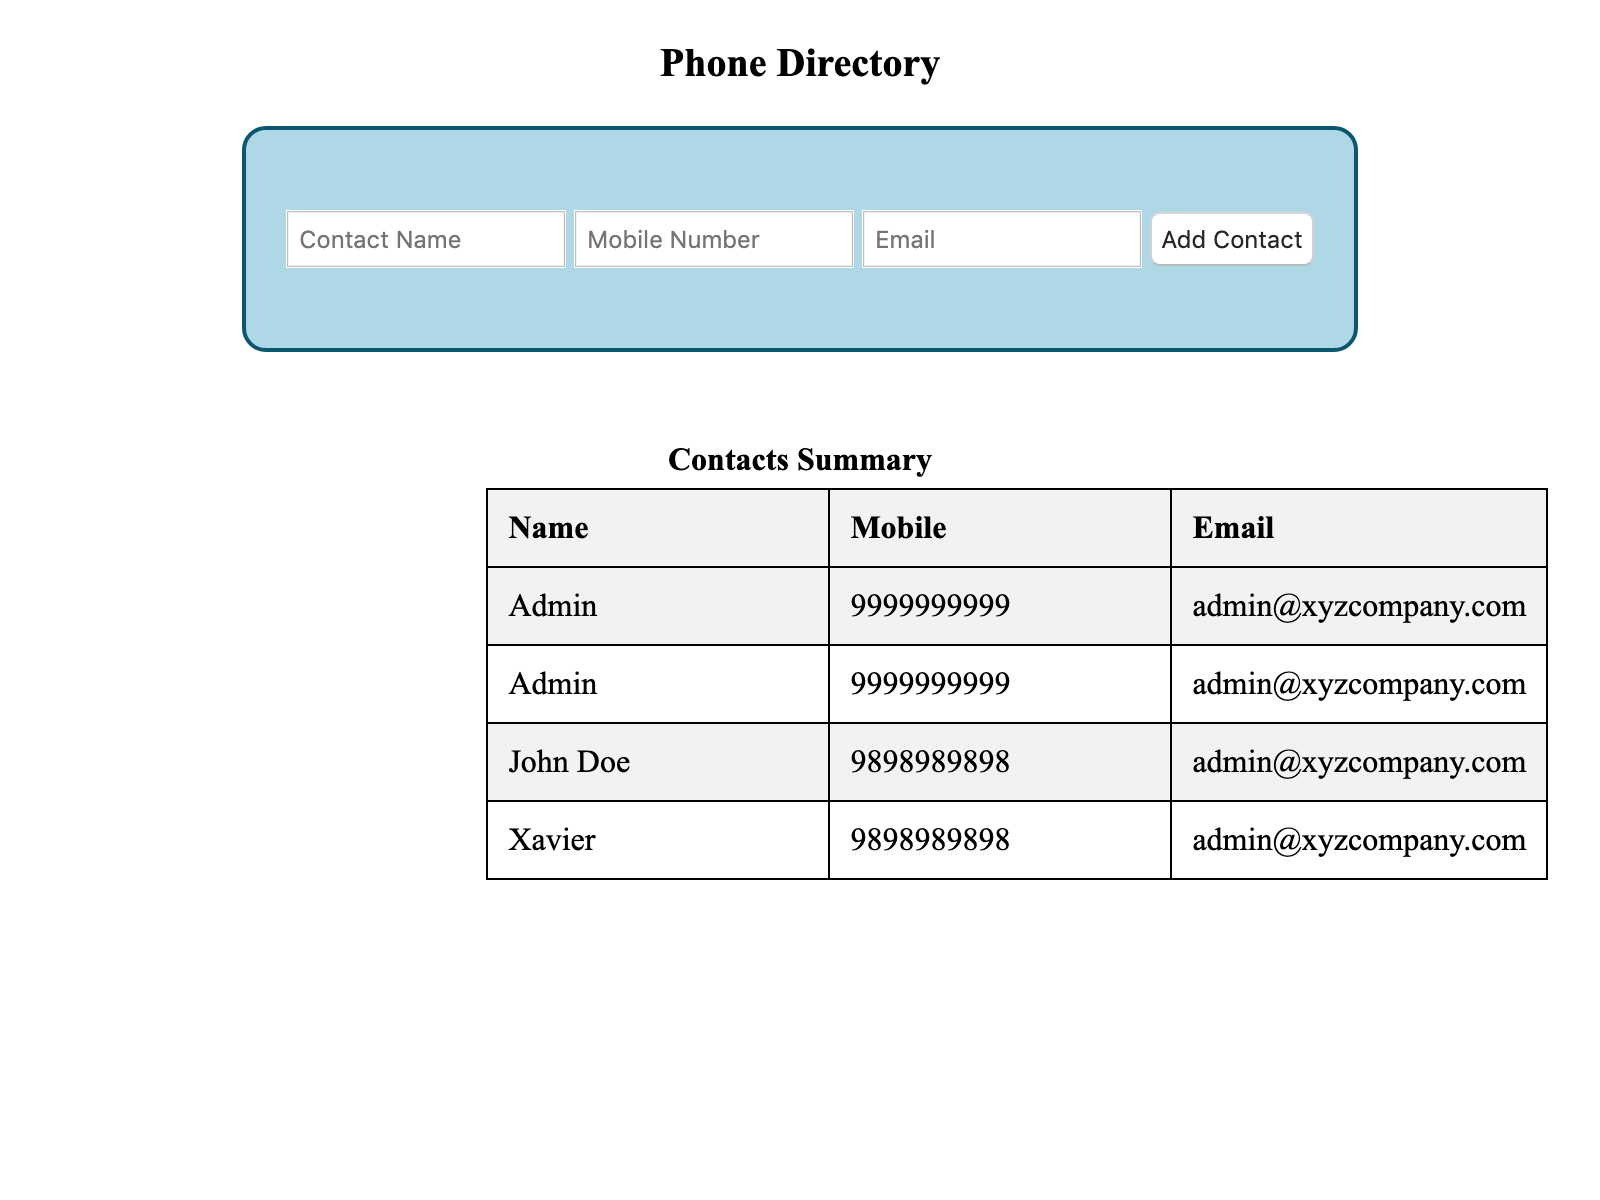
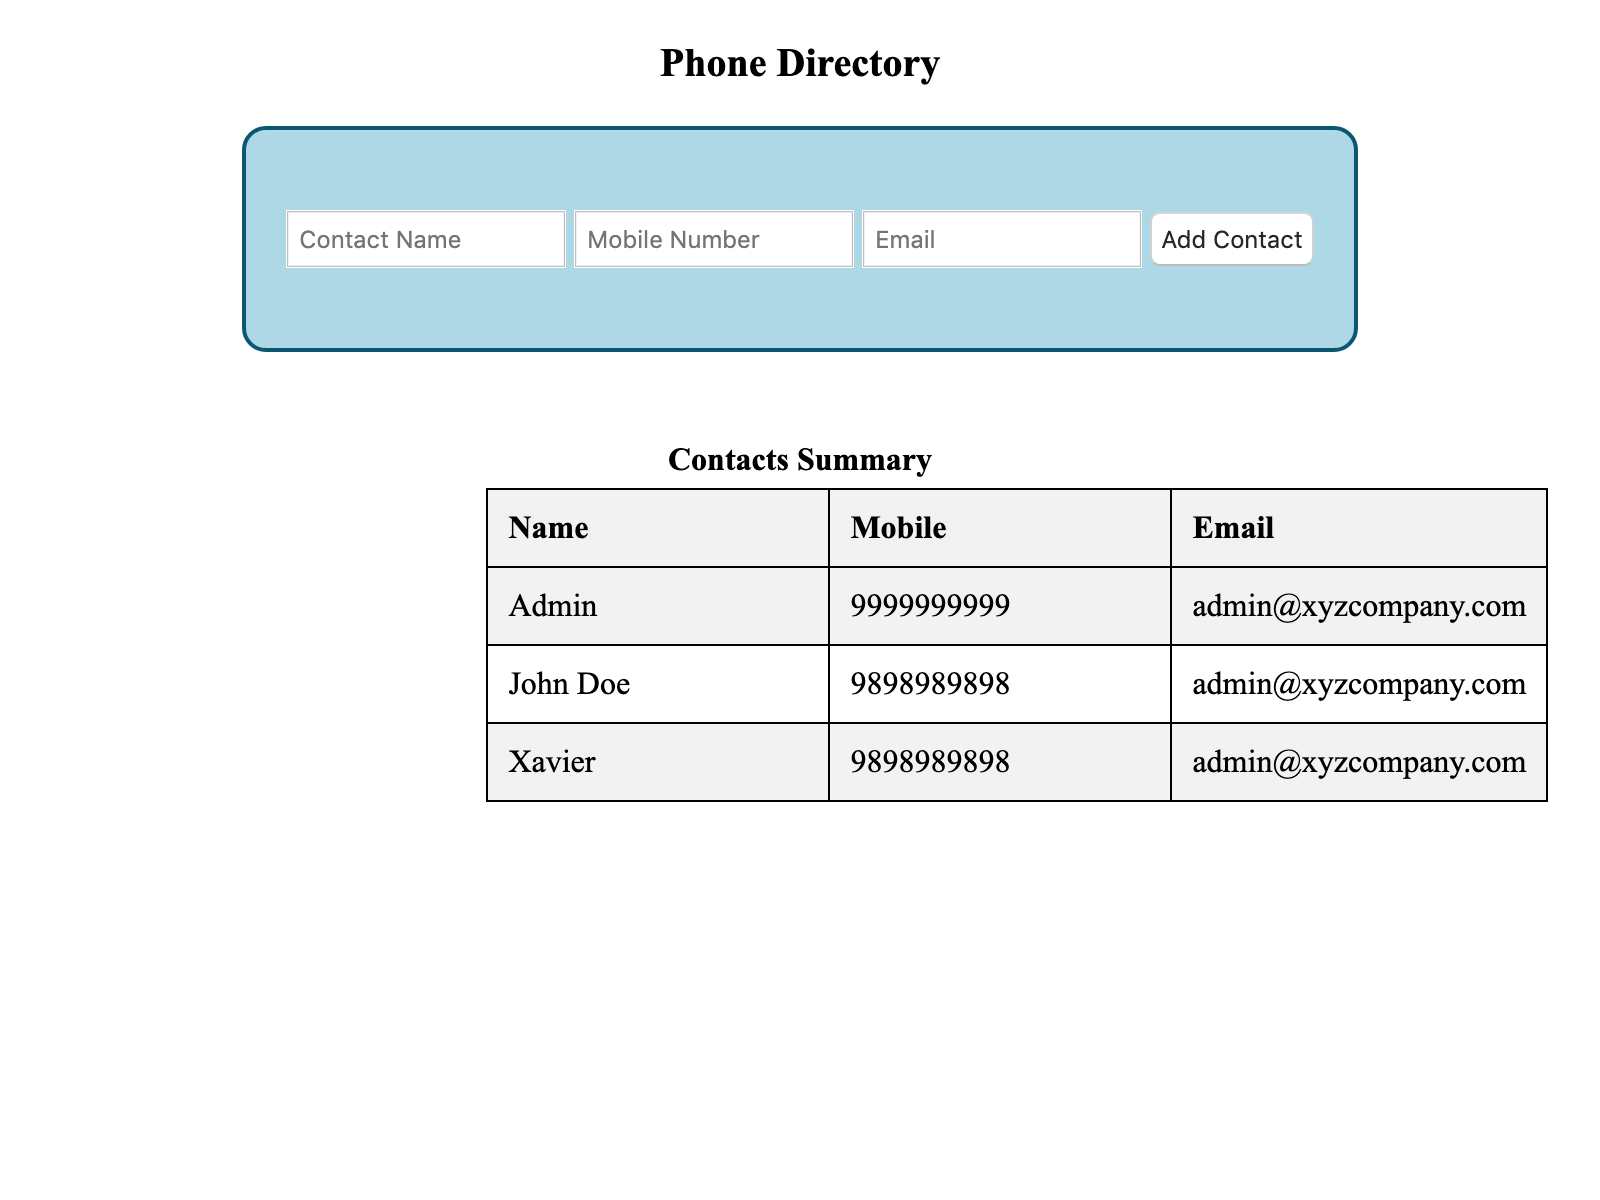
test case fix

diff --git a/test/test.js b/test/test.js
@@ -168,9 +168,9 @@ describe('Phone Directory app \n', function() {
 
     // Ascending
     await nameColumn.click();
-    let name1 = "document.querySelectorAll('#summaryTable tbody')[0].children[1].children[0].innerText.toLowerCase()";
-    let name2 = "document.querySelectorAll('#summaryTable tbody')[0].children[2].children[0].innerText.toLowerCase()";
-    let name3 = "document.querySelectorAll('#summaryTable tbody')[0].children[3].children[0].innerText.toLowerCase()";
+    let name1 = "document.querySelectorAll('#summaryTable tbody')[0].children[0].children[0].innerText.toLowerCase()";
+    let name2 = "document.querySelectorAll('#summaryTable tbody')[0].children[1].children[0].innerText.toLowerCase()";
+    let name3 = "document.querySelectorAll('#summaryTable tbody')[0].children[2].children[0].innerText.toLowerCase()";
     let sorted = await driver.executeScript(`return (${name1} < ${name2}) && (${name1} < ${name3}) && (${name2} < ${name3})`);
     expect(sorted).to.be.true;
     driver.takeScreenshot().then(

diff --git a/view/js/script.js b/view/js/script.js
@@ -64,9 +64,7 @@ PhoneDirectory.prototype.sort = function() {
 }
 
 PhoneDirectory.prototype.reRendertable = function(sortedList) {
-  const $heading = this.$tBody.children[0];
   this.$tBody.innerHTML = '';
-  this.$tBody.append($heading);
   if (sortedList.length === 0) {
     return null;
   } else {
